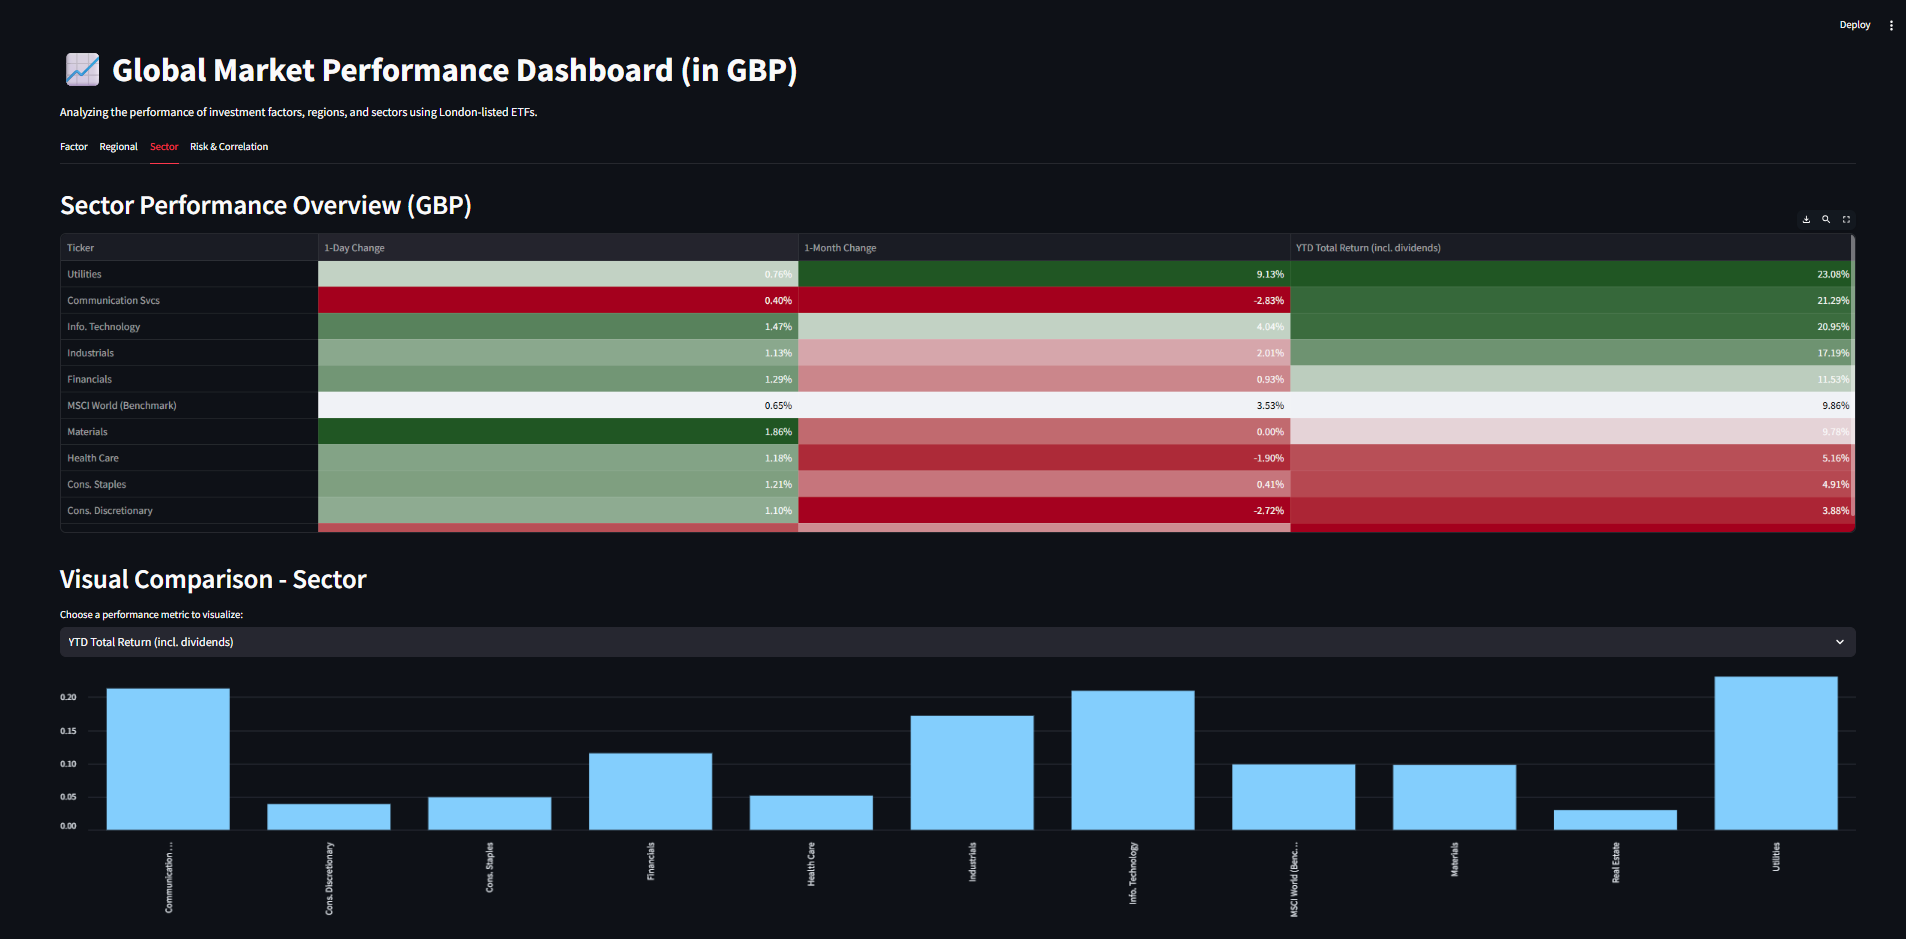
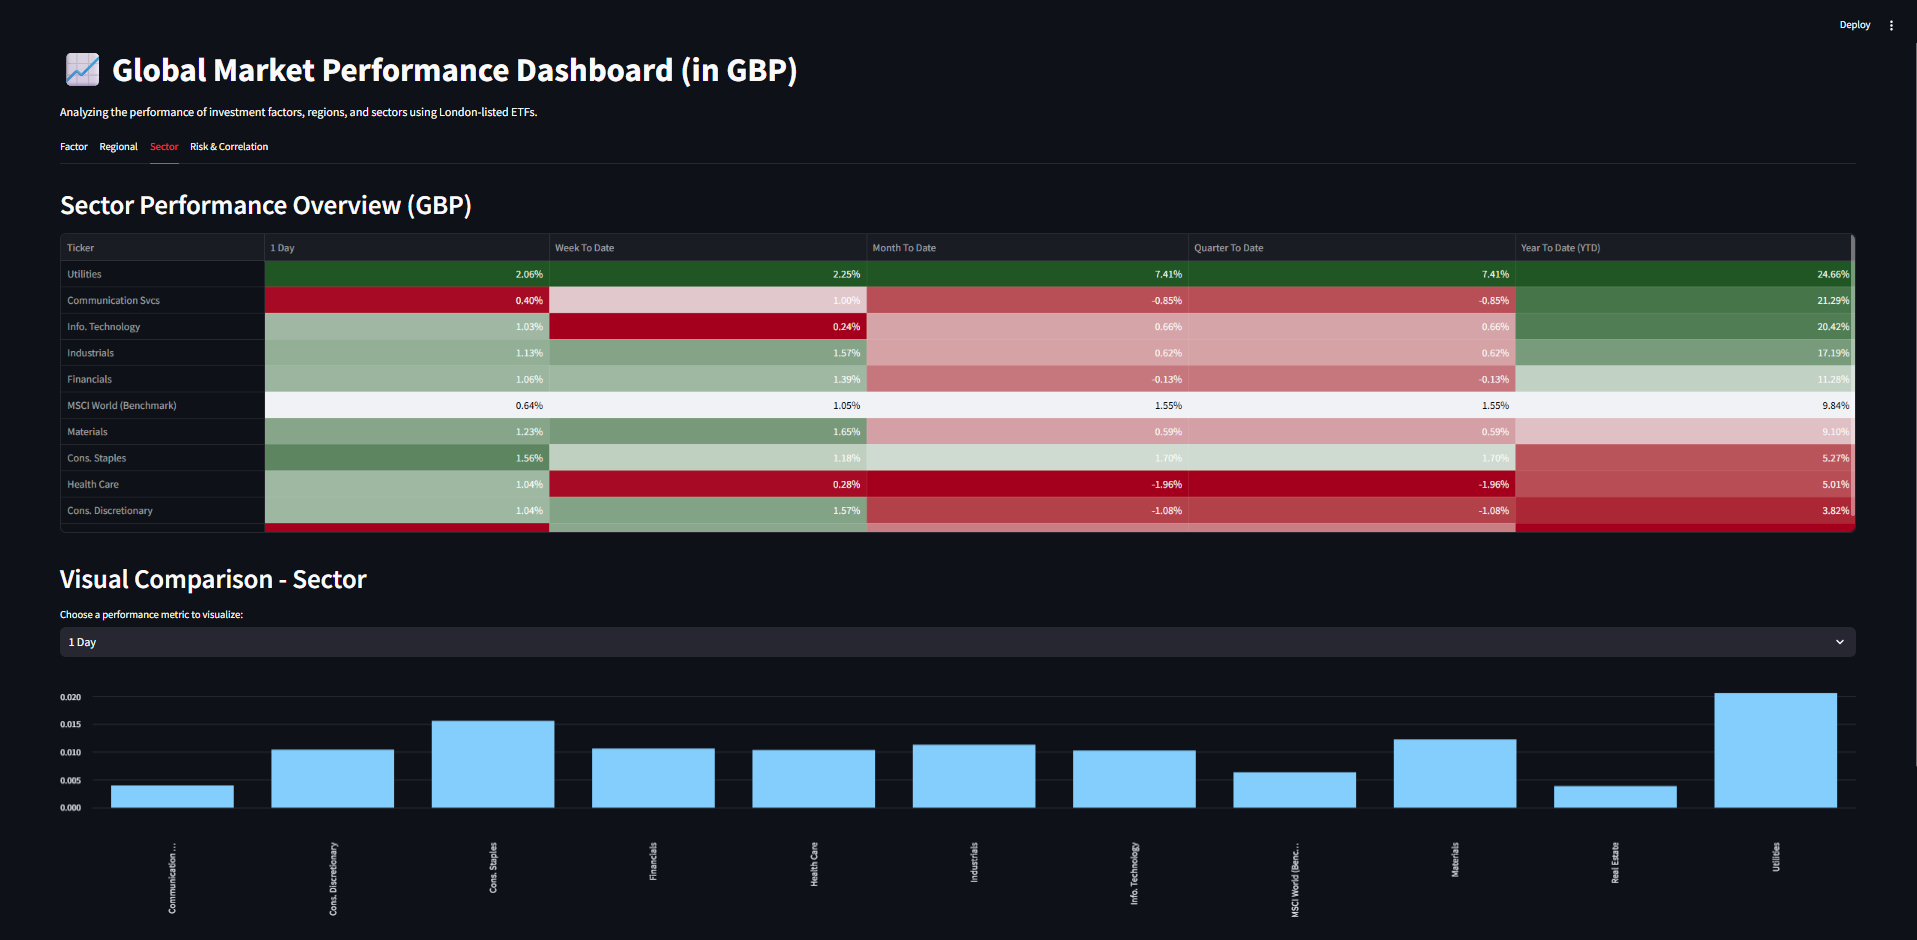
added new date columns

diff --git a/factor_dashboard.py b/factor_dashboard.py
@@ -18,6 +18,7 @@ FACTOR_TICKERS = {
     "World Momentum": "IWFM.L",
     "World Value": "XDEV.L",
     "World Quality": "IWQU.L",
+    "World Growth": "IWFG.L",
     "World Size": "IWFS.L",
 }
 
@@ -49,12 +50,12 @@ SECTOR_TICKERS = {
 
 @st.cache_data(ttl=3600) # Cache data for 1 hour
 def get_performance_data(tickers, start_date):
-    # ... (function is updated to accept a start_date)
+    # ... (function is largely unchanged)
     raw_data = yf.download(list(tickers.values()), start=start_date, progress=False, auto_adjust=False)
 
     if raw_data.empty or 'Close' not in raw_data:
         st.error(f"Could not download market data for one or more tickers.")
-        return pd.DataFrame(), pd.DataFrame()
+        return pd.DataFrame()
     
     if isinstance(raw_data.columns, pd.MultiIndex):
         data = raw_data['Close'].dropna(axis=1, how='all')
@@ -62,7 +63,7 @@ def get_performance_data(tickers, start_date):
         data = raw_data[['Close']].dropna(axis=1, how='all')
 
     if data.empty:
-        return pd.DataFrame(), pd.DataFrame()
+        return pd.DataFrame()
 
     # Rename columns to human-readable names
     ticker_to_name = {v: k for k, v in tickers.items()}
@@ -71,30 +72,53 @@ def get_performance_data(tickers, start_date):
     return data
 
 def calculate_performance_metrics(data):
-    # ... (New function to separate calculation from data fetching)
+    """
+    Calculates performance for dynamic To-Date timeframes: 1 Day, Week, Month, Quarter, and Year.
+    """
     if len(data) < 2:
         return pd.DataFrame()
 
     latest_price = data.iloc[-1]
-    perf_1d = latest_price / data.iloc[-2] - 1
+    today = pd.to_datetime(datetime.now().date())
 
-    if len(data) > 21:
-        perf_1m = latest_price / data.iloc[-22] - 1
-    else:
-        perf_1m = latest_price / data.iloc[0] - 1
+    # --- Define Start Dates for each period ---
+    start_of_week = today - pd.offsets.Week(weekday=0)
+    start_of_month = today - pd.offsets.MonthBegin(1)
+    start_of_quarter = today - pd.offsets.QuarterBegin(1, startingMonth=1)
     
-    current_year = datetime.now().year
-    last_year_data = data[data.index.year == current_year - 1]
-    if not last_year_data.empty:
-        ytd_start_price = last_year_data.iloc[-1]
-        perf_ytd = latest_price / ytd_start_price - 1
-    else:
-        perf_ytd = latest_price / data[data.index.year == current_year].iloc[0] - 1
+    # --- Find the price at the close of business BEFORE the period started ---
+    try:
+        sow_price = data.asof(start_of_week - pd.DateOffset(days=1))
+        som_price = data.asof(start_of_month - pd.DateOffset(days=1))
+        soq_price = data.asof(start_of_quarter - pd.DateOffset(days=1))
+        
+        # For YTD, get the last price of the previous year
+        last_year_data = data[data.index.year == today.year - 1]
+        if not last_year_data.empty:
+            soy_price = last_year_data.iloc[-1]
+        else: # Fallback if no data from last year
+            soy_price = data[data.index.year == today.year].iloc[0]
 
+        # Ensure all start prices are valid
+        if sow_price.isnull().all() or som_price.isnull().all() or soq_price.isnull().all() or soy_price.isnull().all():
+             raise KeyError("Could not find a valid start price for a period.")
+
+    except (KeyError, IndexError):
+        return pd.DataFrame() # Not enough data to calculate
+
+    # --- Performance Calculations ---
+    perf_1d = (latest_price / data.iloc[-2]) - 1 # Re-added 1-day performance
+    perf_wtd = (latest_price / sow_price) - 1
+    perf_mtd = (latest_price / som_price) - 1
+    perf_qtd = (latest_price / soq_price) - 1
+    perf_ytd = (latest_price / soy_price) - 1
+    
     performance_df = pd.DataFrame({
-        "1-Day Change": perf_1d,
-        "1-Month Change": perf_1m,
-        "YTD Total Return (incl. dividends)": perf_ytd
+        "1 Day": perf_1d,
+        "Week To Date": perf_wtd,
+        "Month To Date": perf_mtd,
+        "Quarter To Date": perf_qtd,
+        "Year To Date (YTD)": perf_ytd,
     })
     
     return performance_df
@@ -146,10 +170,8 @@ def style_performance_table(df, benchmark_name="MSCI World (Benchmark)"):
     return df.style.apply(color_rows_gradient, axis=1).format("{:.2%}")
 
 def display_performance_section(title, tickers):
-    # ... (function is updated to use new data fetching and calculation functions)
     st.header(f"{title} Performance Overview (GBP)")
-    current_year = datetime.now().year
-    start_date = f"{current_year - 1}-12-25"
+    start_date = (datetime.now() - pd.DateOffset(years=1)).strftime('%Y-%m-%d')
     
     data = get_performance_data(tickers, start_date)
     performance_table = calculate_performance_metrics(data)
@@ -157,26 +179,34 @@ def display_performance_section(title, tickers):
     benchmark_name = "MSCI World (Benchmark)"
 
     if not performance_table.empty:
-        # Reorder and Style the table
-        if benchmark_name in performance_table.index and title != "Factor":
-            sort_col = "YTD Total Return (incl. dividends)"
-            benchmark_ytd = performance_table.loc[benchmark_name, sort_col]
+        # --- FIX: Unified the display logic for all tabs ---
+        if benchmark_name in performance_table.index:
+            sort_col = "Year To Date (YTD)"
             
-            above_benchmark = performance_table[performance_table[sort_col] > benchmark_ytd].sort_values(by=sort_col, ascending=False)
-            benchmark_row = performance_table.loc[[benchmark_name]]
-            below_benchmark = performance_table[performance_table[sort_col] <= benchmark_ytd].drop(index=benchmark_name).sort_values(by=sort_col, ascending=False)
-            
-            display_table = pd.concat([above_benchmark, benchmark_row, below_benchmark])
-            
-            st.dataframe(style_performance_table(display_table, benchmark_name), use_container_width=True)
+            # Ensure sort column exists before proceeding
+            if sort_col in performance_table.columns:
+                benchmark_perf = performance_table.loc[benchmark_name, sort_col]
+                
+                above_benchmark = performance_table[performance_table[sort_col] > benchmark_perf].sort_values(by=sort_col, ascending=False)
+                benchmark_row = performance_table.loc[[benchmark_name]]
+                below_benchmark = performance_table[performance_table[sort_col] <= benchmark_perf].drop(index=benchmark_name).sort_values(by=sort_col, ascending=False)
+                
+                display_table = pd.concat([above_benchmark, benchmark_row, below_benchmark])
+                
+                st.dataframe(style_performance_table(display_table, benchmark_name), use_container_width=True)
+            else:
+                 # Fallback if YTD column isn't available for some reason
+                 st.dataframe(style_performance_table(performance_table, benchmark_name), use_container_width=True)
         else:
-            st.dataframe(style_performance_table(performance_table.sort_values(by="YTD Total Return (incl. dividends)", ascending=False)), use_container_width=True)
+            # Fallback if benchmark ticker failed to load
+            st.dataframe(performance_table.style.format("{:.2%}").background_gradient(cmap='RdYlGn'), use_container_width=True)
 
         st.header(f"Visual Comparison - {title}")
         
+        metric_options = list(performance_table.columns)
         metric_to_plot = st.selectbox(
             "Choose a performance metric to visualize:",
-            ("YTD Total Return (incl. dividends)", "1-Month Change", "1-Day Change"),
+            metric_options,
             key=f"select_{title}"
         )
 
@@ -192,50 +222,39 @@ def display_performance_section(title, tickers):
         st.warning(f"Could not display performance data for {title}.")
 
 def display_risk_correlation_section(all_tickers):
-    """New section for Correlation and Rolling Performance analysis."""
+    # ... (function is unchanged)
     st.header("Risk & Correlation Analysis")
-
-    # Fetch 3 years of data for meaningful analysis
     start_date = (datetime.now() - pd.DateOffset(years=3)).strftime('%Y-%m-%d')
     data = get_performance_data(all_tickers, start_date)
 
     if not data.empty:
-        # --- 1. Correlation Heatmap ---
         st.subheader("Correlation Heatmap")
         st.write("This grid shows how different assets move in relation to each other. A value of 1 means they move perfectly together; a value of 0 means they have no relationship.")
         
-        # Calculate correlations on daily returns
         returns = data.pct_change()
         corr_matrix = returns.corr()
 
-        # Plot heatmap
         fig, ax = plt.subplots(figsize=(12, 9))
         sns.heatmap(corr_matrix, annot=True, cmap='coolwarm', fmt=".2f", linewidths=.5, ax=ax)
         st.pyplot(fig)
 
-        # --- 2. Rolling Performance ---
         st.subheader("1-Year Rolling Performance")
         st.write("This chart shows the trailing 1-year performance for each asset over the last 3 years, helping to visualize long-term trends and cyclicality.")
         
-        # Calculate 1-year (252 trading days) rolling returns
         rolling_returns = (data.pct_change(252).dropna()) * 100
         st.line_chart(rolling_returns)
 
 # --- Main App Logic ---
-# Combine all tickers into one dict for the new tab
 ALL_TICKERS = {**FACTOR_TICKERS, **REGION_TICKERS, **SECTOR_TICKERS}
 
 tab1, tab2, tab3, tab4 = st.tabs(["Factor", "Regional", "Sector", "Risk & Correlation"])
 
 with tab1:
     display_performance_section("Factor", FACTOR_TICKERS)
-
 with tab2:
     display_performance_section("Regional", REGION_TICKERS)
-
 with tab3:
     display_performance_section("Sector", SECTOR_TICKERS)
-
 with tab4:
     display_risk_correlation_section(ALL_TICKERS)
 
